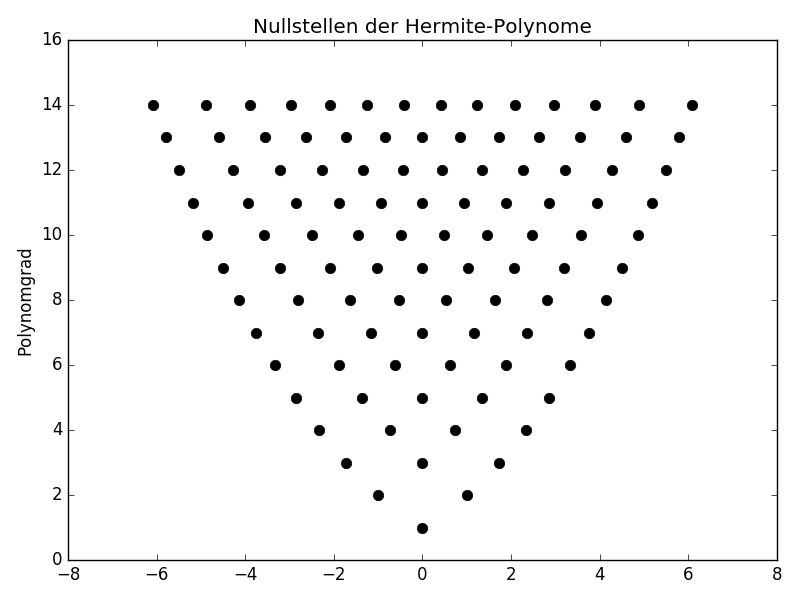
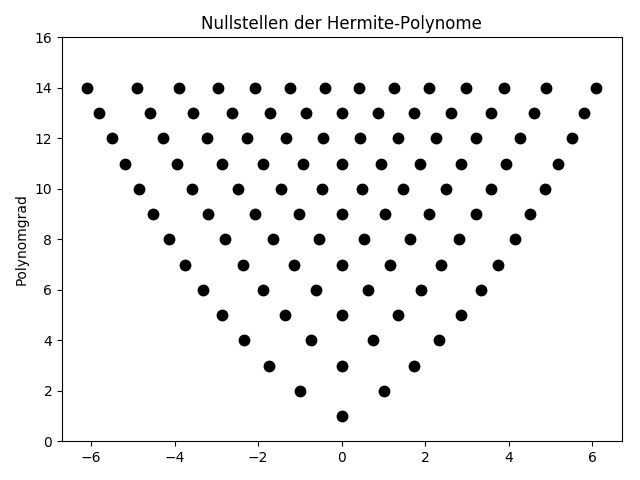
Removed centralized and added pseudo_sparse from thesis.

diff --git a/thesis/tex/Chapters/Chapter4.tex b/thesis/tex/Chapters/Chapter4.tex
@@ -119,10 +119,10 @@ In Abbildung \ref{fig:collocation_trial1} ist die Approximationsgüte der Interp
 Eine mögliche Wahl für $N>1$ die Menge der Interpolationspunkte $\Theta_Y^N$ zu einem gegebenem Zufallsvektor $Y$ der Dimension $N$ zu wählen, ist gegeben durch das volle Tensorprodukt
 \[\Theta_Y^N=\Theta_{Y_1}\otimes \dots \otimes \Theta_{Y_N},\quad \Theta_{Y_i}\subset I_{Y_i}\]
 Dann gilt für die Anzahl der Interpolationspunkte $S=S_1 \dots S_N$. Ist die Anzahl an Basispolynomen $M+1$ fest, so ist es schwierig die Bedingung $S=M+1$ exakt zu erfüllen. Wir fordern daher, dass $S_1=\dots=S_N$ und $S\ge M+1$ minimal. Dieser Ansatz wird in Abbildungen durch \textit{full\_tensor} gekennzeichnet.
-\subsubsection*{Mehrdimensionale Interpolation durch zentralisiertes dünnes Gitter}
+\subsubsection*{Mehrdimensionale Interpolation durch pseudo-dünne Gitter}
 Eine weitere Option für $M+1=\binom{N+P}{P}$ ist mit $S_1=\dots=S_N$ die Wahl
-\[\Theta_Y^N=\lbrace (y_{m_1},\dots,y_{m_N})\in \Theta_{Y_1}\otimes \dots \otimes \Theta_{Y_N} \mid |m|\le P \rbrace \]
-Es wird somit jedem Multi-Index $m\in\N_0^N$ genau ein mehrdimensionaler Interpolationspunkt $y$ zugewiesen und es gilt $M+1=S$. Die Wahl der Nummerierung der eindimensionalen Interpolationspunkte ist dabei entscheidend. Für Legendre- oder Hermite-Polynome bietet sich eine betragsmäßig aufsteigende Sortierung der Punkte an, da diese symmetrisch um $0$ verteilt sind. Für Jacobi- und Laguerre-Polynome ist diese Symmetrie abhängig von den Parametern verschoben. Man beobachtet in Abbildung \ref{fig:poly_roots} dennoch die für Orthogonalpolynome geltende Eigenschaft, dass die Nullstellen eines Polynoms höheren Grades zwischen den Nullstellen des vorherigen Polynoms zu finden sind. Dies motiviert es die Nullstellen um den Median herum zu sortieren. Dieser Ansatz wird in Abbildungen durch \textit{centralized} gekennzeichnet.
+\[\Theta_Y^N=\lbrace (y_{m_1},\dots,y_{m_N})\in \Theta_{Y_1}\otimes \dots \otimes \Theta_{Y_N} \mid |m|\le P,m\in\N_0^N \rbrace \]
+Es wird somit jedem Multi-Index $m\in\N_0^N$ genau ein mehrdimensionaler Interpolationspunkt $y$ zugewiesen und es gilt $M+1=S$. Die Matrix im Interpolationsansatz ist dadurch quadratisch und die ihre Kondition geringer. Die Wahl der Nummerierung der eindimensionalen Interpolationspunkte ist entscheidend. Für Legendre- oder Hermite-Polynome bietet sich eine betragsmäßig aufsteigende Sortierung der Punkte an, da diese symmetrisch um $0$ verteilt sind. Für Jacobi- und Laguerre-Polynome beobachten wir in Abbildung \ref{fig:poly_roots} keine Symmetrie. Dennoch gilt die Eigenschaft von Orthogonalpolynomen, dass die Nullstellen eines Polynoms höheren Grades zwischen den Nullstellen des vorherigen Polynoms zu finden sind. Wir sortieren die Nullstellen aufsteigend und hoffen dadurch eine repräsentative Auswahl zu treffen. Dieser Ansatz wird in Abbildungen durch \textit{pseudo\_sparse} gekennzeichnet.
 \begin{figure}[!htb]
 \minipage{0.5\textwidth}
   \includegraphics[width=\linewidth]{Figures/roots_legendre.png}
@@ -135,24 +135,32 @@ Es wird somit jedem Multi-Index $m\in\N_0^N$ genau ein mehrdimensionaler Interpo
 \caption{Nullstellen verschiedener Orthogonalbasen von Polynomen mit steigendem Grad.}
 \label{fig:poly_roots}
 \end{figure}
-
-Ein Beispiel sei für $N=2$ und $P=14$ gemacht, wo für Legendre- und Hermite-Polynome die Interpolationspunkte des zentralisierten Gitters in Abbildung \ref{fig:roots_centralized} dargestellt sind. Der Vorteil dieser Methode ist, dass durch die Eigenschaft $M+1=S$ die Matrix quadratisch ist und die Kondition kleiner ist als für ein überbestimmtes System. Wir werden später basierend auf Smolyaks Konstruktion einen effizienteren dünne Gitter Ansatz kennen lernen, der nicht nur für Interpolation verwendbar ist, sondern sich auch auf generelle Operatoren übertragen lässt.
+Ein Beispiel sei für $N=2$ und $P=14$ gemacht, wo für Legendre- und Laguerre-Polynome die Interpolationspunkte des pseudo-dünnen Gitters und des vollen Tensorprodukts in Abbildung \ref{fig:roots_two_dim} dargestellt sind.\\
 \begin{figure}[!htb]
 \centering
-\includegraphics[width=0.8\linewidth]{Figures/roots_centralized.png}
-\caption{Interpolationspunkte des centralized Ansatzes für $N=2$ und Legendre- und Hermite-Polynome.}
-\label{fig:roots_centralized}
+\minipage{0.5\textwidth}
+  \includegraphics[width=\linewidth]{Figures/roots_pseudo_sparse.png}
+\endminipage
+\minipage{0.5\textwidth}
+  \includegraphics[width=\linewidth]{Figures/roots_full_tensor.png}
+\endminipage
+\caption{Interpolationspunkte für den pseudo-dünne Gitter Ansatz und das volle Tensorprodukt für die Nullstellen der Legendre- und Laguerre(3)-Polynome mit $N=2$ und $P=14$.}
+\label{fig:roots_two_dim}
 \end{figure}
+
+Wir werden später basierend auf Smolyaks Konstruktion einen effizienteren dünne Gitter Ansatz kennen lernen, der nicht nur für Interpolation verwendbar ist, sondern sich auch auf generelle Operatoren übertragen lässt. Dieser basiert allerdings auf vollen Tensorprodukten von Operatoren und ist daher nur übertragbar, wenn wir volle Tensorprodukte von Polynombasen zulassen (d.h. ohne die zusätzliche Bedingung $|m|\le P$). Da dies einen erheblichen Rechenaufwand impliziert, werden wir keine dünnen Gitter Ansätze für die Interpolation verwenden.
 \subsection{Vergleiche der Ansätze}
 Wir reduzieren uns für $N=1$ auf die Nullstellen derjenigen Orthogonalpolynome, die gemäß des gPC zu der Verteilung von $Y$ gehören. Für das kompakte Interval $I=[-1,1]$ wäre es ebenso möglich die \chebyspace Interpolationspunkte zu verwenden. Diese bieten aber nach unseren Beobachtungen keinen Vorteil.\\
 Für $N>1$ besteht die Möglichkeit das volle Tensorprodukt der jeweiligen eindimensionalen Interpolationspunkte zu den Komponenten von $Y$ zu wählen. Da dies jedoch im Allgemeinen mehr Punkte umfasst als die vorhandenen $M+1$ Polynome, ist das lineare Gleichungssystem überbestimmt und wir beobachten eine hohe Kondition der Matrix. Dies sorgt insbesondere dafür, dass die Approximation der Varianz, welche jede Komponente des Lösungsvektors benötigt, bereits für $P>3$ instabil ist.\\
-Anhand der \nameref{trial:8} aus dem Appendix mit $N=4$ vergleichen wir die beiden Wahlen in Abbildung \ref{fig:collocation_trial8}. \todo[inline]{Centralized weglassen? Beschreibung auf jeden Fall anpassen...}Wir sehen, dass sich der Erwartungswert mit beiden Ansätzen gleich gut approximieren lässt. Die Varianz ist durch das überbestimmte System beim full\_tensor Ansatz jedoch nicht berechenbar (für $P=9$ ergibt sich ein System der Größe $6^4\times \binom{4+9}{9} =1296\times 715$). Erhöht man $P$ weiter so beobachtet man auch für den centralized Ansatz zunehmende Instabilität. Der Erwartungswert des vollen Tensorproduktansatzes ist dabei bis zur Referenzgenauigkeit $\mathcal{O}(10^{-4})$ konvergiert. In beiden Fällen ist die Kondition der Matrix schon für $P=9$ in der Größenordnung $\mathcal{O}(10^6)$.
+Anhand der \nameref{trial:8} aus dem Appendix mit $N=4$ vergleichen wir die beiden Ansätze in Abbildung \ref{fig:collocation_trial8}. 
 \begin{figure}[!htb]
 \centering
-\includegraphics[width=\linewidth]{Figures/collocation_mi_trial8_ft_centralized.png}
-\caption{Approximation des Erwartungswerts und der Varianz von \nameref{trial:8} mithilfe von Collocation durch Interpolation und verschiedenen Ansätzen bis zu $P=15$.}
+\includegraphics[width=\linewidth]{Figures/collocation_mi_trial8_ft_pseudosparse.png}
+\caption{Approximation des Erwartungswerts und der Varianz von \nameref{trial:8} mithilfe von Collocation durch Interpolation und verschiedenen Ansätzen bis zu $P=14$.}
 \label{fig:collocation_trial8}
 \end{figure}
+Wir sehen, dass sich der Erwartungswert mit beiden Ansätzen approximieren lässt. Bis zu $P=11$ ist die Approximation mit dem pseudo\_sparse Ansatz dabei um einen Faktor 10 genauer. Die Kondition der Matrix ist für $P=11$ jedoch bereits in der Größenordnung $\mathcal{O}(10^{13})$ mit wachsender Tendenz, was Approximationen mit $P>11$ zunehmend schlechter werden lässt.\\
+Die Varianz ist durch das überbestimmte System beim full\_tensor Ansatz nicht berechenbar (für $P=9$ ergibt sich ein System der Größe $6^4\times \binom{4+9}{9} =1296\times 715$). Erhöht man $P$ weiter, so beobachtet man auch für den pseudo\_sparse Ansatz zunehmende Instabilität.
 
 \section{Diskrete Projektion}
 Der zweite Ansatz zur stochastischen Collocation basiert auf der Bestapproximation in $L_{\rho_Y}^2$.

diff --git a/util/quadrature/rules.py b/util/quadrature/rules.py
@@ -85,6 +85,48 @@ class CentralizedDiamondQuadrature(QuadratureRule):
         return self.weights
 
 
+# Not a quadrature rule, this is just a way to associate the subset of the full tensor product that is restricted
+# by the sum_bound with a set of nodes that does a good job for the matrix inversion approach, similiar to
+# CentralizedDiamond but treating Laguerre and Jacobi differently as their nodes are not symmetric around 0
+# one can think of this approach using t
+class PseudoSparseDiamond(QuadratureRule):
+    def __init__(self, nodes_and_weights_funcs, poly_names, sum_bound):
+        nodes_list, weights_list = [], []
+        length = sum_bound + 1
+        nodes_weights_pairs = [nodes_and_weights_func(length) for nodes_and_weights_func in nodes_and_weights_funcs]
+        # for every multi index we add one nodes tuple to the list, so we will later have the same
+        # amount of nodes/weights as we have basis polynomials with the same sum_bound
+        indices = multi_index_bounded_sum(len(nodes_and_weights_funcs), sum_bound)
+
+        for multi_index in indices:
+            current_nodes, current_weights = [], []
+            for (nodes, weights), index, poly_name in zip(nodes_weights_pairs, multi_index, poly_names):
+                # here it is important that we have enough nodes to use the multi_index's index!
+                if poly_name in ["Hermite", "Legendre"]:
+                    index = centralize_index(index, length)  # important as nodes are symmetric around the center
+                elif poly_name == "Jacobi":
+                    index = length - index - 1  # TODO maybe depending on if alpha > beta ?
+                elif poly_name == "Laguerre":
+                    pass  # do not change index
+                else:
+                    raise ValueError("Not supported polynomials:", poly_name)
+                current_nodes.append(nodes[index])
+                current_weights.append(weights[index])
+            nodes_list.append(current_nodes)
+            weights_list.append(mul_prod(current_weights))
+        self.nodes = np.array(nodes_list)
+        self.weights = np.array(weights_list)
+
+    def get_nodes(self):
+        return self.nodes
+
+    def get_nodes_count(self):
+        return len(self.weights)
+
+    def get_weights(self):
+        return self.weights
+
+
 # implementation for weakly and fully nested grids inspired and adapted
 # from code from https://people.sc.fsu.edu/~jburkardt/m_src/sandia_sparse/sandia_sparse.html
 class SparseQuadrature(QuadratureRule):

diff --git a/polynomial_chaos/poly_chaos_distributions.py b/polynomial_chaos/poly_chaos_distributions.py
@@ -3,7 +3,7 @@ import polynomial_chaos.poly as poly
 import polynomial_chaos.distributions as distr
 from functools import lru_cache
 from util.analysis import rising_factorial
-from util.quadrature.rules import CentralizedDiamondQuadrature, FullTensorQuadrature, SparseQuadrature
+from util.quadrature.rules import CentralizedDiamondQuadrature, FullTensorQuadrature, SparseQuadrature, PseudoSparseDiamond
 from util.quadrature.nesting import get_nesting_for_name
 from util.quadrature.closed_fully_nested import ClosedFullNesting
 from util.quadrature.glenshaw_curtis import calculate_transformed_nodes_and_weights
@@ -43,6 +43,9 @@ class PolyChaosDistribution:
         elif method == "centralized":
             sum_bound, even = param
             self.quadrature_rule = CentralizedDiamondQuadrature(self.get_nodes_and_weights(), sum_bound, even)
+        elif method == "pseudo_sparse":
+            sum_bound, poly_names = param
+            self.quadrature_rule = PseudoSparseDiamond(self.get_nodes_and_weights(), poly_names, sum_bound)
         elif method == "sparse_gc":
             distrs = self.get_distributions()
             nesting = ClosedFullNesting()
@@ -75,7 +78,7 @@ def make_laguerreChaos(alpha):  # alpha > 0
     assert alpha > 0
     return PolyChaosDistribution(poly.make_laguerre(alpha),
                                  distr.make_gamma(alpha, 1),
-                                 lambda n: 1)
+                                 lambda n: 1)  # we use normalized polynomials here
 
 
 def make_jacobiChaos(alpha, beta):  # alpha, beta > -1

diff --git a/demo/centralized_sparse_grid.py b/demo/centralized_sparse_grid.py
@@ -1,16 +1,24 @@
-from util.quadrature.rules import CentralizedDiamondQuadrature
+from util.quadrature.rules import CentralizedDiamondQuadrature, PseudoSparseDiamond, FullTensorQuadrature
 import polynomial_chaos.poly as p
 import matplotlib.pyplot as plt
 
 
-legendre = p.make_legendre()
-hermite = p.make_hermite()
+chaos1 = p.make_legendre()
+chaos2 = p.make_laguerre(3)
 
-rule = CentralizedDiamondQuadrature([legendre.nodes_and_weights, hermite.nodes_and_weights], 14, False)
+P = 14
+ruleCentralized = CentralizedDiamondQuadrature([chaos1.nodes_and_weights, chaos2.nodes_and_weights], P, False)
+ruleSparseDiamond = PseudoSparseDiamond([chaos1.nodes_and_weights, chaos2.nodes_and_weights],
+                                        [chaos1.name, chaos2.name], P)
+ruleFullTensor = FullTensorQuadrature([P, P], [chaos1.nodes_and_weights, chaos2.nodes_and_weights])
+
+rule, name = ruleFullTensor, "full_tensor"
 
 plt.figure()
-plt.title("Interpolationspunkte des centralized-Ansatzes, $N=2$, $P=14$")
-plt.xlabel("Punkte der Nullstellen von Legendre-Polynomen")
-plt.ylabel("Punkte der Nullstellen von Hermite-Polynomen")
+plt.title("Interpolationspunkte des {}-Ansatzes, $N=2$, $P={}$"
+          .format(name, P))
+plt.xlabel("Punkte der Nullstellen von {}-Polynomen".format(chaos1.name))
+plt.ylabel("Punkte der Nullstellen von {}-Polynomen".format(chaos2.name))
 plt.plot(*zip(*rule.get_nodes()), ".", color="black", markersize=15)
+plt.tight_layout()
 plt.show()

diff --git a/demo/matrix_inversion_collo.py b/demo/matrix_inversion_collo.py
@@ -13,7 +13,7 @@ trial = st.trial_8
 
 # "High order is not the same as high accuracy. High order translates to high accuracy only when the integrand
 # is very smooth" (http://apps.nrbook.com/empanel/index.html?pg=179#)
-N = list(range(13))  # maximum degree of the univariate polynomial
+N = list(range(15))  # maximum degree of the univariate polynomial
 
 # from n+1 to n+10 notably difference for most examples
 # number of nodes in random space, >= N+1, higher CAN give more accuracy (for higher polys)
@@ -44,8 +44,8 @@ start_time = 0
 stop_time = trial.get_parameter("stop_time", 0.5)
 # if grid_size is bigger this needs to be smaller, especially for higher poly degrees
 delta_time = trial.get_parameter("delta_time", 0.001)
-methods = ["full_tensor", "centralized"]  # ["full_tensor", "sparse", "sparse_gc", "centralized"]
-method_params = [M, [(n, True) for n in N]]  # [M, L, L_gc, [(n, False) for n in N]]
+methods = ["full_tensor", "pseudo_sparse"]  # , "chebyshev"]  # ["full_tensor", "sparse", "sparse_gc", "centralized"]
+method_params = [M, [(n, chaos_names) for n in N]]  # , M]  # [M, L, L_gc, [(n, False) for n in N]]
 method_markers = ["-o", "-D", "-x", "-."]
 rank_frac = None
 exp_var_results = dict()

diff --git a/demo/roots_poly_basis.py b/demo/roots_poly_basis.py
@@ -13,5 +13,6 @@ for n in range(max_n):
 plt.title("Nullstellen der {}-Polynome".format(polybasis.name))
 plt.ylim((0, max_n+1))
 plt.ylabel("Polynomgrad")
+plt.tight_layout()
 plt.show()
 
